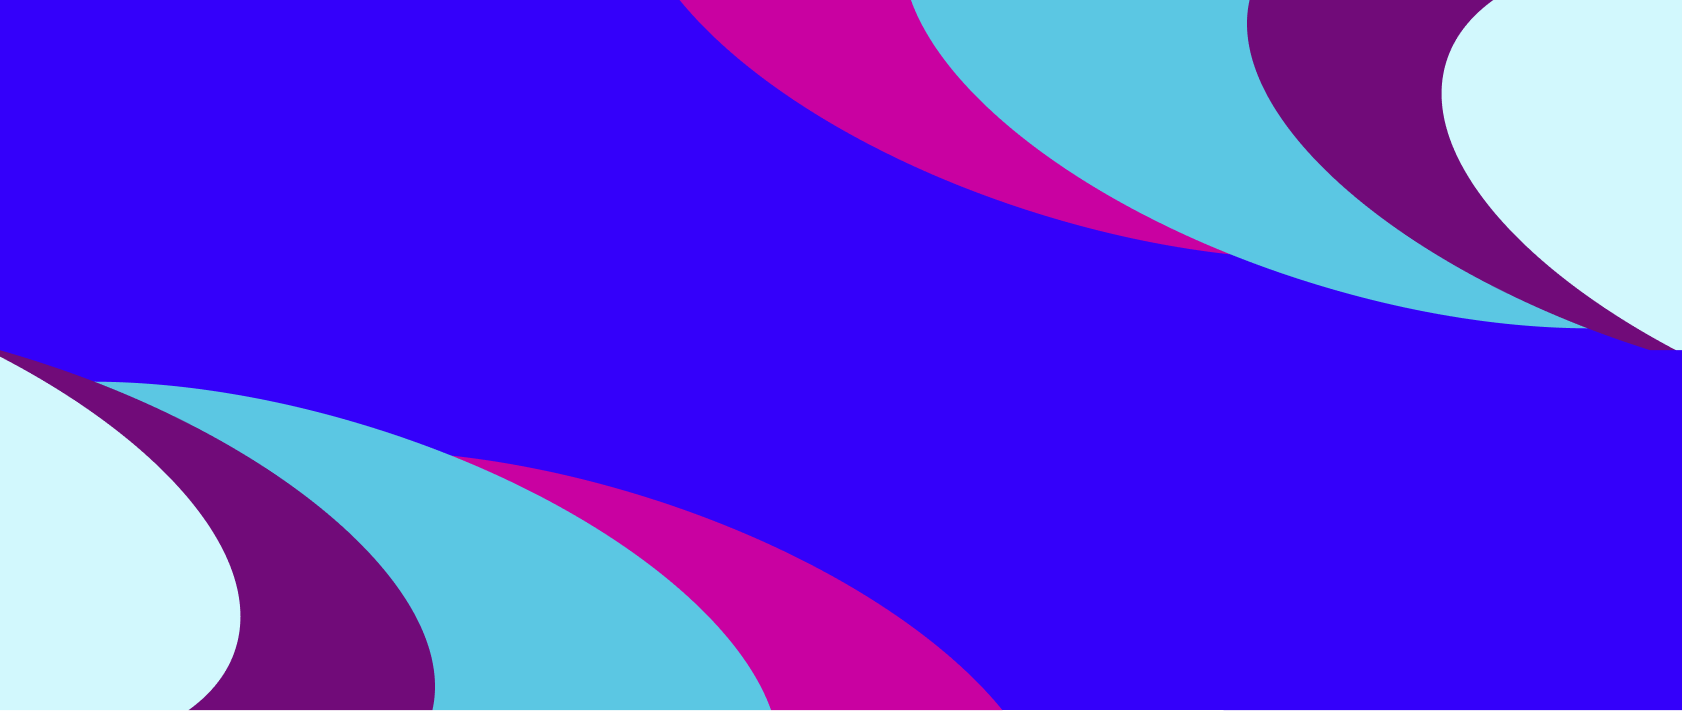
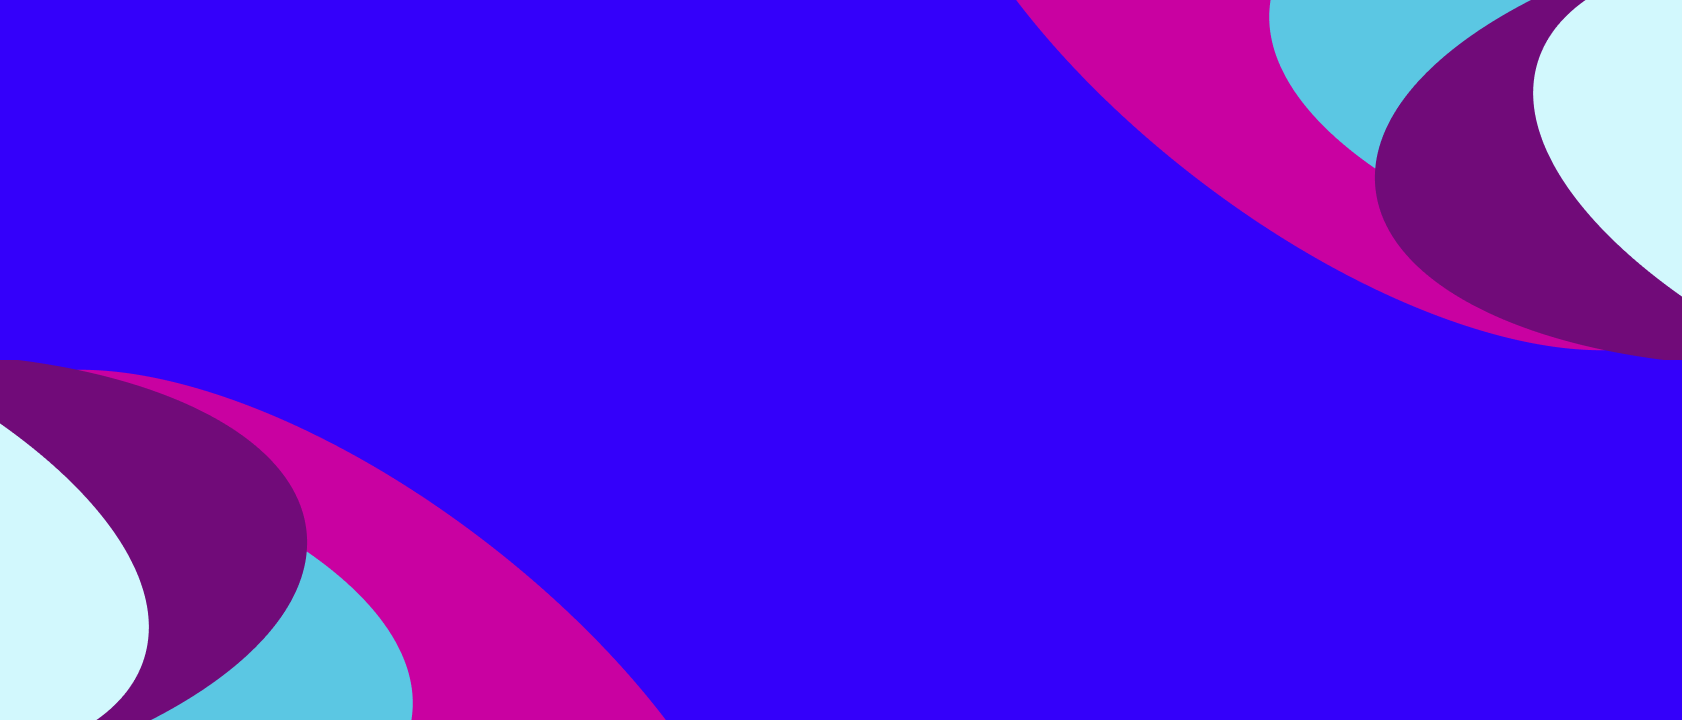
fit bg img

diff --git a/src/components/landing/Hero.vue b/src/components/landing/Hero.vue
@@ -1,6 +1,6 @@
 <template>
   <div>
-    <div id="checkMouse" class="flex justify-center text-center text-gray-300 h-fit bgimg">
+    <div id="checkMouse" class="flex justify-center text-center text-gray-300 h-fit bgimgeffect">
       <div class="xs:py-28 sm:py-52">
         <div class="p-2 tracking-widest sm:text-5xl xs:text-3xl">
           <span class="font-medium">H</span>
@@ -56,8 +56,8 @@
 </script>
 
 <style>
-  .bgimg {
+  .bgimgeffect {
     background-image: url('~@/assets/background.png');
-    background-size: cover;
+    background-size: 100% 100%;
   }
 </style>
